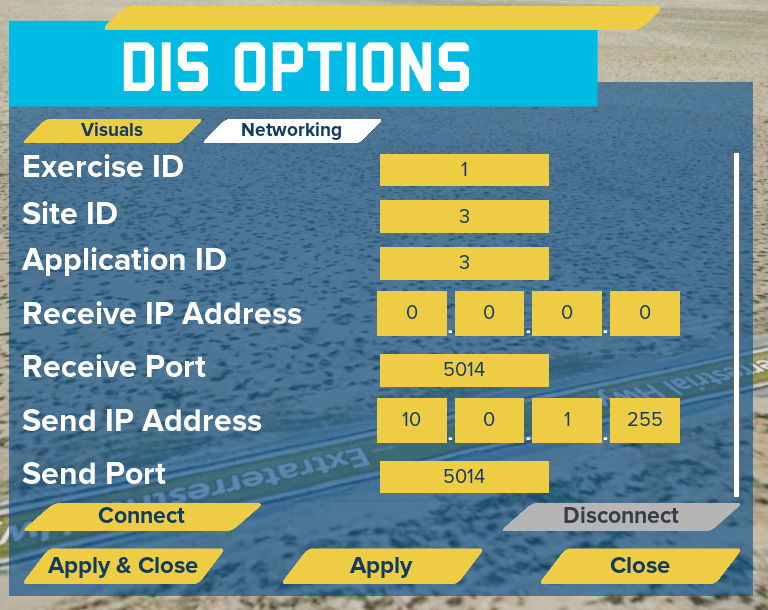
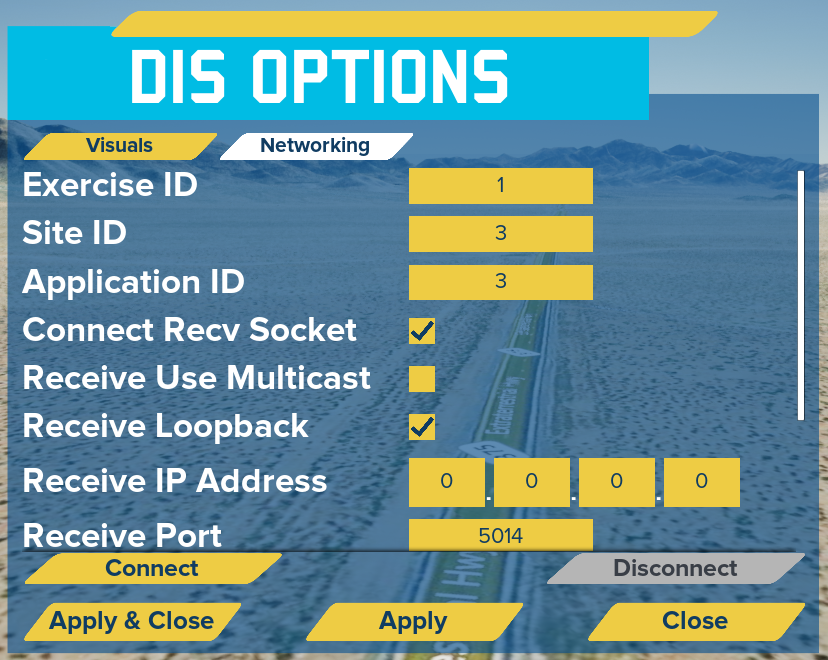
Updated plugin and readme.

diff --git a/Plugins/GRILLDISForUnreal/Source/DISRuntime/Private/UDPSubsystem.cpp b/Plugins/GRILLDISForUnreal/Source/DISRuntime/Private/UDPSubsystem.cpp
@@ -190,6 +190,12 @@ bool UUDPSubsystem::OpenSendSocket(FSendSocketSettings SocketSettings, int32& Se
 		return false;
 	}
 
+	if (SenderSocket == nullptr)
+	{
+		UE_LOG(LogUDPSubsystem, Error, TEXT("Failed to bind to address <%s:%d>! Setup of send socket failed. Verify given IP and Port are in valid ranges and that another socket is not already set up on the given address."), *IpToSendOn, PortToSendOn);
+		return false;
+	}
+
 	//Set Send Buffer Size
 	SenderSocket->SetSendBufferSize(SocketSettings.BufferSize, SocketSettings.BufferSize);
 	SenderSocket->SetReceiveBufferSize(SocketSettings.BufferSize, SocketSettings.BufferSize);

diff --git a/README.md b/README.md
@@ -43,14 +43,23 @@
 - Change the network settings as desired.
     - Exercise ID/Site ID/Application ID: DIS specific settings.
 		- _**NOTE:**_ Exercise ID needs to match that of what is being sent on the network in order to handle the received packets.
+	- Connect Recv Socket: Whether or not to connect a receive socket.
+	- Receive Use Multicast: Whether or not the receive socket being connected will use multicast.
+		- _**NOTE:**_ If enabled, the Receive IP Address should be a multicast address.
+	- Receive Loopback: Whether or not the receive socket should listen for loopback traffic (i.e. traffic from local machine).
     - Receive IP Address: Address to receive DIS packets on.
         - _**NOTE:**_ A receive IP address of 0.0.0.0 will listen to all DIS packets on the network.
     - Receive Port: The port to receive DIS packets on.
+	- Connect Send Socket: Whether or not to connect a send socket.
+	- Send Connection Type: The connection type to use for the send socket.
+		- Current types supported are Multicast, Broadcast, and Unicast.
     - Send IP Address: The IP address to send DIS packets on.
     - Send IP Address: The port to send DIS packets on.
 - Click on Connect to connect to the network (opens a UDP socket)
-
-
+- If any issues are encountered on connection attempts, an error message will appear under the network widget.
+	- _**NOTE:**_ The Connect/Disconnect buttons will update based on if any sockets are currently opened.
+	
+![SocketConnectionError](Resources/ReadMeImages/SocketConnectionError.png)
 
 - Once all desired options are set, hit 'Apply & Close'. Then click on 'Start' if haven't already.
     - _**NOTE:**_ 'DIS Options' can be changed even after 'Start' is clicked via the 'Options' button that appears in the top right hand corner.
